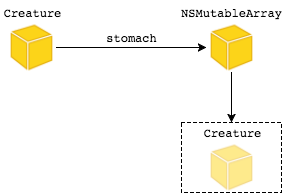
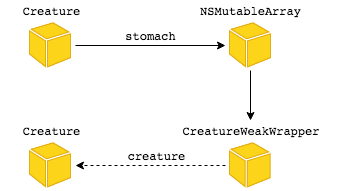
Lecture3 updated

diff --git a/source/docs/lecture_3.1.md b/source/docs/lecture_3.1.md
@@ -110,7 +110,21 @@ NSMutableArray *arrayCopy = [array mutableCopy]; //1
 
 ----
 
-## Используя ARC, вам не нужно заниматься ручным управлением памяти!
+## Пример
+
+![](lecture_3.1_img/l3.1_apple_example.png)
+
+
+----
+
+## Пример
+
+![](lecture_3.1_img/Graph_2_2.png)
+
+
+----
+
+## Используя ARC, вам не нужно заниматься ручным управлением памяти
 
 
 ----
@@ -161,7 +175,7 @@ NSMutableArray *arrayCopy = [array mutableCopy]; //1
 
 ## ARC - пример
 
-Creatue не владеет своим пожирателем!
+Creature не владеет своим пожирателем!
 
 ```ObjectiveC
 @interface Creature : NSObject
@@ -436,6 +450,7 @@ while (1) {
 @interface Number : NSObject
 
 @property (nonatomic, copy) void (^changedCallback)();
+@property (nonatomic, getter = isEven) BOOL even;
 
 @end
 
@@ -444,7 +459,7 @@ while (1) {
 - (void)configure
 {
     self.changedCallback = ^(){
-        NSLog(@"%@", self.description);
+        NSLog(@"%@ %d", self.description, _even);
     };
 }
 
